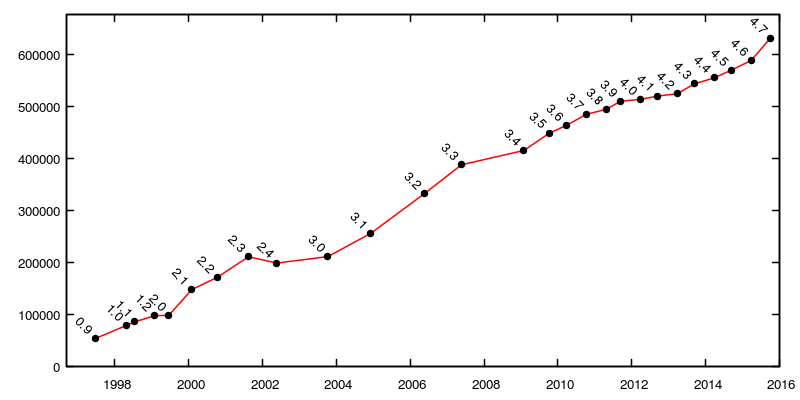
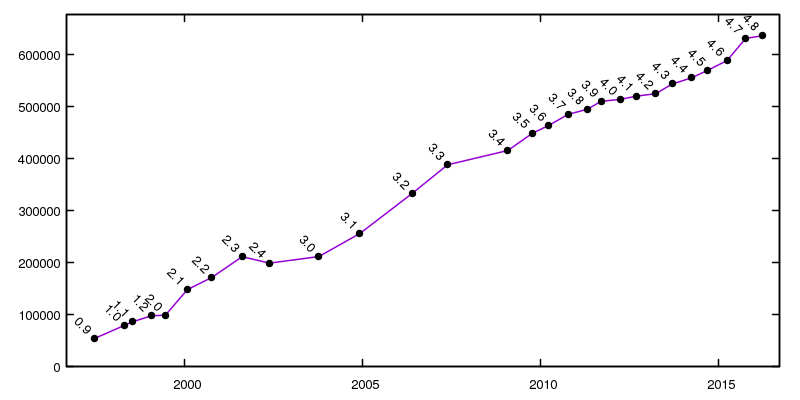
CGAl-4.8-beta1

diff --git a/documentation.html b/documentation.html
@@ -22,14 +22,13 @@ group: navigation
 {% assign box_target_blank = true %}
 {% include themes/cgal/box %}
 
-<!--
-{% assign box_title = "Manual of CGAL 4.7 beta 1" %}
+{% assign box_title = "Manual of CGAL 4.8 beta 1" %}
 {% assign box_text  = "Have a look into the future. Note that the beta is already public." %}
 {% assign box_image = "images/icons/beta.svg" %}
-{% assign box_link = "http://doc.cgal.org/4.7/Manual/packages.html" %}
+{% assign box_link = "http://doc.cgal.org/4.8/Manual/packages.html" %}
 {% assign box_target_blank = true %}
 {% include themes/cgal/box %}
--->
+
 {% assign box_title = "Exact Computation Paradigm" %}
 {% assign box_text  = "Combine the speed of floating point computation with the robustness guaranteed by arbitrary precision arithmetic " %}
 {% assign box_image = "images/icons/exact.svg" %}

diff --git a/_posts/2016-02-10-cgal48-beta1.md b/_posts/2016-02-10-cgal48-beta1.md
@@ -1,0 +1,193 @@
+---
+layout: post
+title: "CGAL 4.8 beta1"
+description: "CGAL 4.8 beta1 released"
+category: 
+tags: ["release"]
+---
+{% include JB/setup %}
+
+<a href="http://doc.cgal.org/4.8/Manual/index.html">Link to the
+CGAL-4.8-beta1 documentation</a>
+
+  <h3>General</h3>
+  <ul>
+    <li>The support for Qt3 is dropped and all demos using it got removed.
+    </li>
+  </ul>
+  <h3>Installation</h3>
+  <ul>
+    <li>Starting with Visual C++ 2015 we no longer
+        require <code>Boost.Thread</code> as we use the C++11
+        keyword <code>thread_local</code> and the C+11
+        class <code>std::mutex</code> .</li>
+    <li>The same holds for g++ 4.8 or later when the C++11 standard is
+      used.</li>
+  </ul>
+  <h3>2D Reconstruction and Simplification from Point Set (new package)</h3>
+  <ul>
+    <li>
+      This package implements a method to reconstruct and simplify 2D point
+      sets. The input is a set of 2D points with mass attributes, possibly
+      hampered by noise and outliers. The output is a set of line segments
+      and isolated points which approximate the input points.
+    </li>
+  </ul>
+  <h3>2D Regularized Boolean Set-Operations</h3>
+  <ul>
+    <li>Improve the performance of operations in some settings.<br />
+        <b>Breaking change</b>: This improvement requires changes of the
+        face and halfedge type of the underlying arrangement Dcel.  See the
+        concepts <code>GeneralPolygonSetDcelHalfedge</code> and
+        <code>GeneralPolygonSetDcelFace</code> for more details.  If you use a
+        different simplex types, inheriting your simplices from
+        <code>CGAL::Gps_face_base</code>
+        and <code>CGAL::Gps_halfedge_base</code> is sufficient to
+        accommodate for the update.
+    </li>
+  </ul>
+  <h3>3D Boolean Operations on Nef Polyhedra</h3>
+  <ul>
+    <li>Add 3 new constructors: from a point range, from a point, and from
+    a segment.</li>
+  </ul>
+  <h3>Combinatorial Maps</h3>
+  <ul>
+    <li><b>Breaking change</b>: Change the type of Boolean marks, old type
+    is int, new type is <code>size_type</code>. If no more mark is
+    available, <code>get_new_mark</code> throws an exception, instead of
+    returning <code>-1</code>.</li>
+  </ul>
+  <h3>2D Arrangements</h3>
+  <ul>
+    <li>Speed up the edge removal in case the incident faces contains many
+    holes.</li>
+  </ul>
+  <h3>3D Mesh Generation</h3>
+  <ul>
+    <li>Add support of 3D gray level images as input for the tetrahedral
+    mesh generation.</li>
+    <li><b>Breaking change:</b> All models of the
+    concept <code>MeshDomain_3</code> must now provide a member
+    function <code>bbox()</code>. </li>
+  </ul>
+  <h3>Advancing Front Surface Reconstruction</h3>
+  <ul>
+    <li>Optional template functor <code>Filter</code> is replaced by
+    another optional template functor <code>Priority</code>. This
+    allows to change the way facets are prioritized by the algorithm
+    instead of having a simple option to reject some
+    facets.<br /><b>Breaking change</b>: Programs using the
+    old <code>Filter</code> API will not compile anymore as it must be
+    replaced with the <code>Priority</code> API as described in the
+    manual. Codes using the default behavior are not impacted.</li>
+  </ul>
+  <h3>Polygon Mesh Processing</h3>
+  <ul>
+    <li>Add a new triangle-based isotropic remeshing algorithm for
+    triangulated surface meshes,
+    <code>CGAL::Polygon_mesh_processing::isotropic_remeshing()</code>
+    and a helper function for isotropic remeshing :
+    <code>CGAL::Polygon_mesh_processing::split_long_edges()</code></li>
+    <li>Add the
+    function <code>CGAL::Polygon_mesh_processing::border_halfedges()</code>
+    to collect the border of a given face range</li>
+    <li>Add the
+    function <code>CGAL::Polygon_mesh_processing::remove_isolated_vertices()</code>
+    to be used on any polygon mesh</li>
+    <li>Add the
+    function <code>CGAL::Polygon_mesh_processing::triangulate_face()</code>
+    to triangulate a single face of a polygon mesh</li>
+    <li>Add an overload
+    for <code>CGAL::Polygon_mesh_processing::triangulate_faces()</code> to
+    triangulate a range of faces of a polygon mesh</li>
+    <li>Add function <code>keep_large_connected_components()</code></li>
+    <li>Add measuring functions for polygon meshes, to compute length,
+    area, and volume of simplices or group of simplices of a polygon
+    mesh.</li>
+    <li>Add function <code>bbox_3()</code> to compute the bounding box of a
+    polygon mesh.</li>
+  </ul>
+  <h3>Surface Mesh Parameterization</h3>
+  <ul>
+    <li><code>LSCM_parameterizer_3</code> now uses by default Eigen instead
+    of OpenNL as a model of <code>SparseLinearAlgebraTraits_d</code>.</li>
+  </ul>
+  <h3>Point Set Processing</h3>
+  <ul>
+    <li> <b>Breaking change:</b> new template
+      parameter <code>Concurrency_tag</code> for the
+      functions <code>compute_average_spacing()</code>,
+      <code>edge_aware_upsample_point_set()</code>,
+      <code>jet_estimate_normals()</code>,
+      <code>jet_smooth_point_set()</code>,
+      and <code>pca_estimate_normals()</code>.  To update your code simply
+      add as first template parameter <code>CGAL::Sequential_tag</code>
+      or <code>CGAL::Parallel_tag</code> when calling one of these
+      functions.</li>
+    <li> <code>CGAL::Parallel_tag</code> can no longer be used in Point Set
+      Processing algorithms if TBB is not available.</li>
+    <li>
+      Add a new simplification algorithm based on hierarchical
+    clustering: <code>CGAL::hierarchy_simplify_point_set()</code>. It
+    allows either to uniformly simplify the point set or to automatically
+    adapt the local density of points to the local variation of the input
+    computed by principal component analysis.
+    </li>
+    <li> New IO functions for PLY format (Polygon File
+      Format): <code>CGAL::read_ply_points()</code>,
+      <code>CGAL::read_ply_points_and_normals()</code>,
+      <code>CGAL::write_ply_points()</code>
+      and <code>CGAL::write_ply_points_and_normals()</code>.</li>
+  </ul>
+  <h3>Surface Mesh Parameterization</h3>
+  <ul>
+    <li><code>LSCM_parameterizer_3</code> now uses by default Eigen
+    instead of OpenNL as a model
+    of <code>SparseLinearAlgebraTraits_d</code>.</li>
+  </ul>
+  <h3>Spatial Searching</h3>
+  <ul>
+    <li>Add function to find any point in a range query, that is neither
+    all points, nor the closest one.</li>
+  </ul>
+  <h3>Principal Component Analysis</h3>
+  <ul>
+    <li>
+      Add a template parameter <code>DiagonalizeTraits</code> for
+      functions <code>CGAL::linear_least_squares_fitting_2()</code>
+      and <code>CGAL::linear_least_squares_fitting_3()</code>. This
+      allows to either choose the legacy internal diagonalization code
+      from CGAL or the Eigen implementation (or any class that is a
+      model of <code>DiagonalizeTraits</code>). Variants of the
+      function that automatically deduce the kernel also automatically
+      select the diagonalizer, so the API is mostly preserved.
+    </li>
+  </ul>
+  <h3>CGAL and Solvers</h3>
+  <ul>
+    <li>
+      This package now includes all CGAL concepts for solvers with
+      models using the third party Eigen library.
+    </li>
+  </ul>
+  <h3>CGAL and the Boost Graph Library (BGL)</h3>
+  <ul>
+    <li>Add function <code>CGAL::split_graph_into_polylines()</code> that allows
+        to extract from a soup of segments given as a graph, polylines with nodes
+        of degree at most 2. In addition a functor can be passed to the function
+        to specify additional polyline endpoints.</li>
+    <li>
+      New functions to manipulate selection of faces, edges and vertices in
+      a halfedge graph are added:
+      <code>CGAL::expand_face_selection()</code>, <code>CGAL::reduce_face_selection()</code>,
+      <code>CGAL::expand_edge_selection()</code>, <code>CGAL::reduce_edge_selection()</code>
+      <code>CGAL::expand_vertex_selection()</code>, <code>CGAL::reduce_vertex_selection()</code>
+      and <code>CGAL::select_incident_faces()</code>.
+    </li>
+    <li>
+      Add a helper function <code>CGAL::clear</code> which clears a
+      MutableFaceGraph efficiently and generically.
+    </li>
+  </ul>
+<!-- Visualization -->
